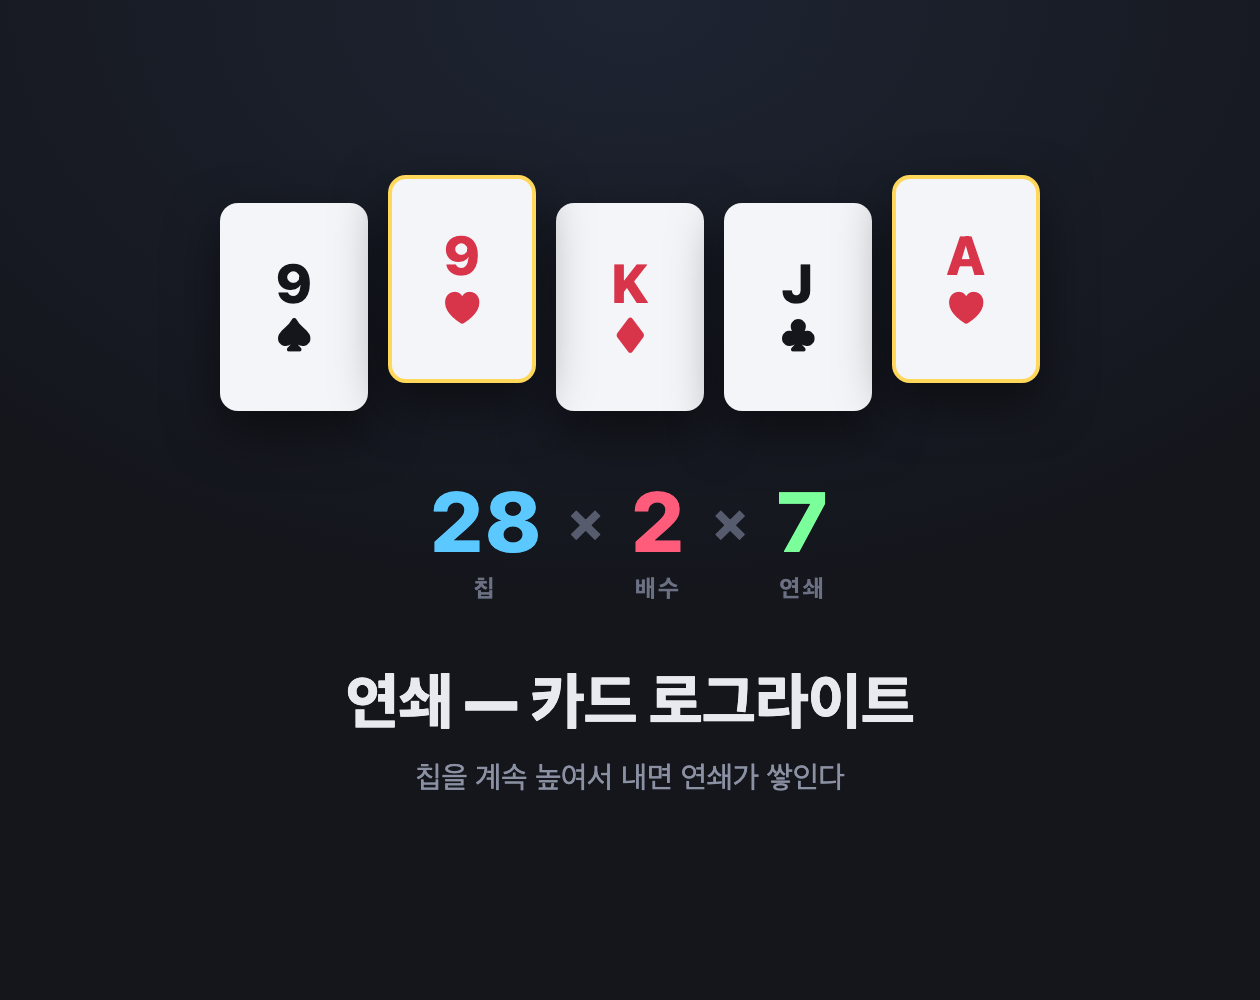
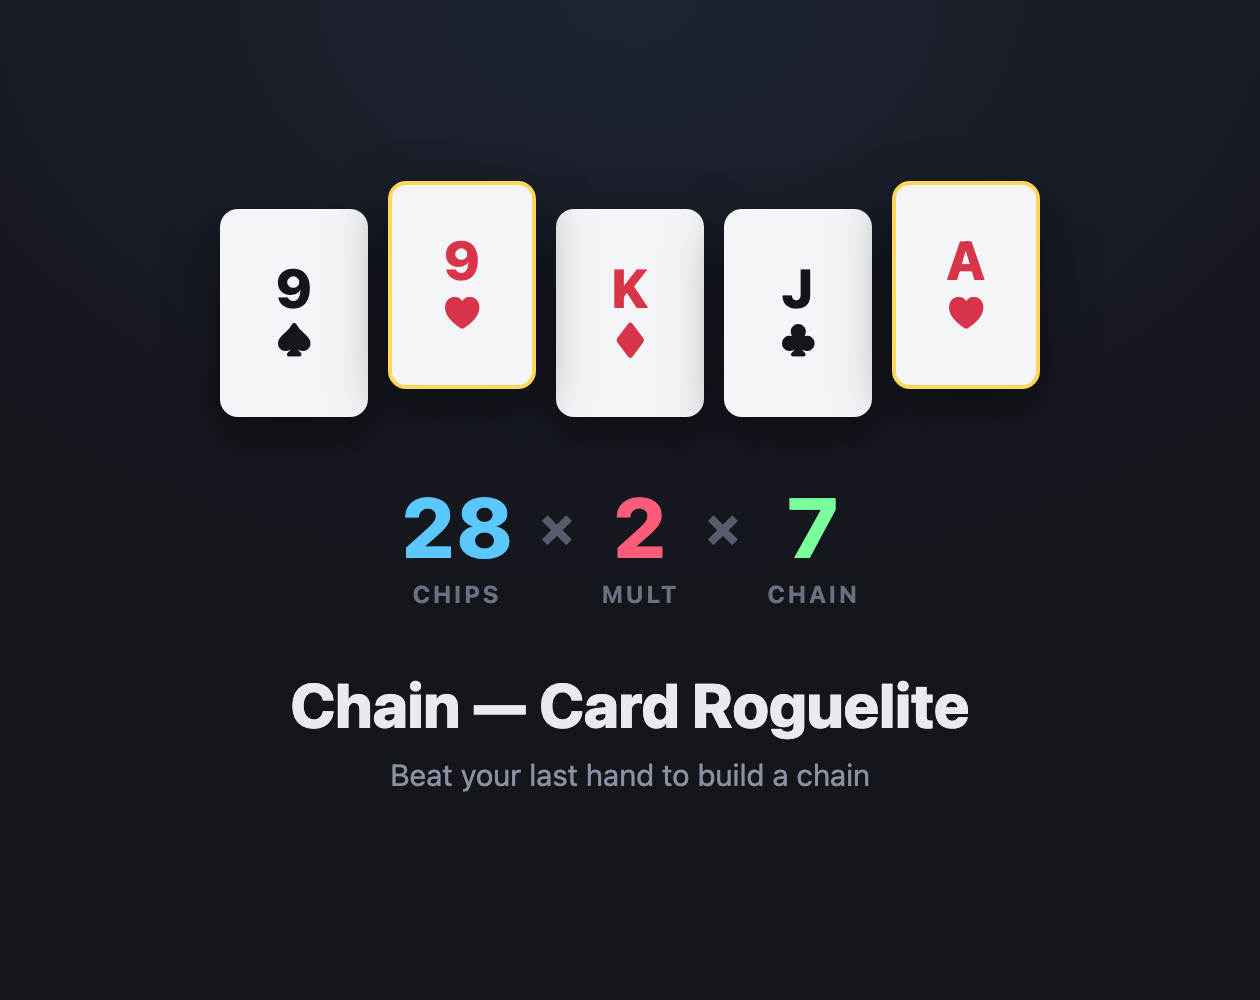
영어 기본 반영: 커버·스크린샷·zip 재생성, 배포 문구 갱신

diff --git a/PUBLISH.md b/PUBLISH.md
@@ -1,6 +1,7 @@
 # 배포용 문구 모음
 
-복사해서 붙여넣기용. 게임은 한국어라 **한국 커뮤니티가 1순위**, itch.io는 병행.
+복사해서 붙여넣기용. **게임이 영어/한국어 둘 다 지원**하므로 itch.io와 한국 커뮤니티를
+동시에 노려도 된다. 기본 언어는 영어, 우상단 버튼으로 전환.
 
 ---
 
@@ -8,8 +9,8 @@
 
 | 항목 | 값 |
 |---|---|
-| Title | 연쇄 — 카드 로그라이트 |
-| Short description | 칩을 계속 높여서 내면 연쇄가 쌓인다. 한 판 10분 카드 게임 |
+| Title | Chain — Card Roguelite |
+| Short description | Your chain only survives if every hand beats the last. ~10 min per run |
 | Classification | Game |
 | Kind of project | HTML |
 | Release status | Released |
@@ -17,11 +18,11 @@
 | Upload | `first-game-itch.zip` → **This file will be played in the browser** 체크 |
 | Embed | Manually set size: **760 × 1000**, Fullscreen 허용 |
 | Genre | Card Game |
-| Tags | `cards`, `roguelite`, `poker`, `singleplayer`, `html5`, `korean`, `score-attack` |
-| Language | Korean |
+| Tags | `cards`, `roguelite`, `poker`, `singleplayer`, `html5`, `score-attack`, `deckbuilding` |
+| Language | English, Korean (둘 다 선택) |
 
-> **Language를 Korean으로 꼭 지정할 것.** 영어권 유저가 들어왔다가 못 읽고 나가면
-> 조회수만 오르고 지표가 오염된다. 처음부터 걸러내는 게 낫다.
+> 프로젝트 **URL(주소)은 반드시 영문**으로. 제목에서 자동 생성되는 주소가
+> 한글이면 예약어와 충돌해서 저장이 안 된다. 예: `chain-card-roguelite`
 
 ---
 
@@ -84,18 +85,8 @@ That decision is the entire game.
 - Flush builds, low-hand builds, deck thinning — runs go in different directions
 - About 10 minutes per run, copy your result to share it
 - No install, works on mobile
+- English and Korean (switch in the top right)
 ```
-
-> **주의:** 영어 본문만 올리고 게임이 한국어면, 영어권 유저가 들어왔다가
-> 못 읽고 나간다. 게임 UI를 영어로도 지원한 뒤에 이 본문을 쓰는 게 맞다.
-> 그 전까지는 아래 문장을 본문 끝에 붙여서 미리 알려줄 것:
->
-> ```
-> ■ NOTE
->
-> The interface is currently Korean only. The game is mostly cards, suits and
-> numbers so it is playable if you know poker, but the text is not translated yet.
-> ```
 
 ---
 
